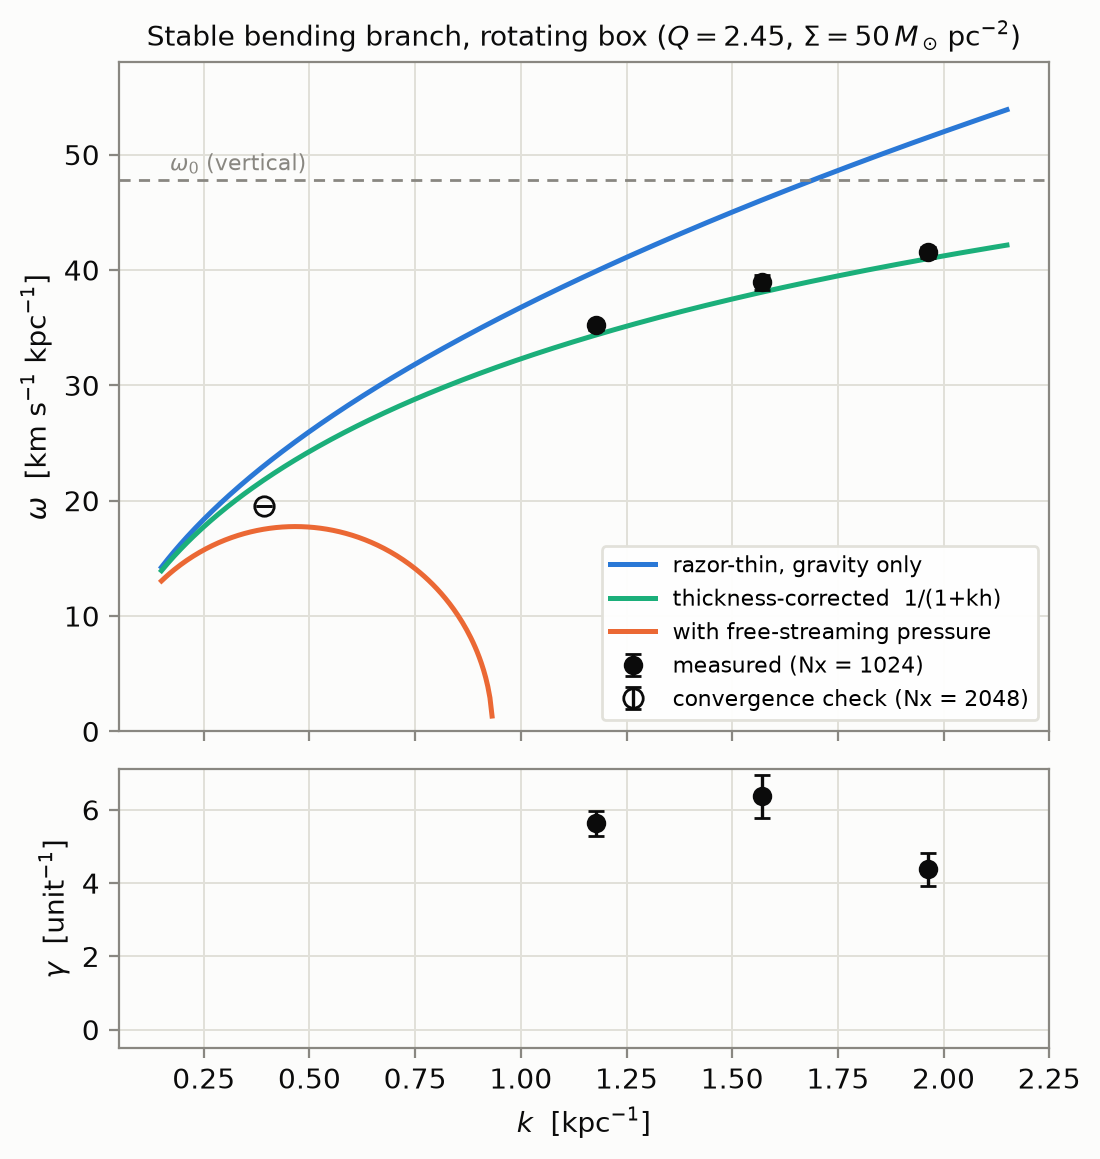
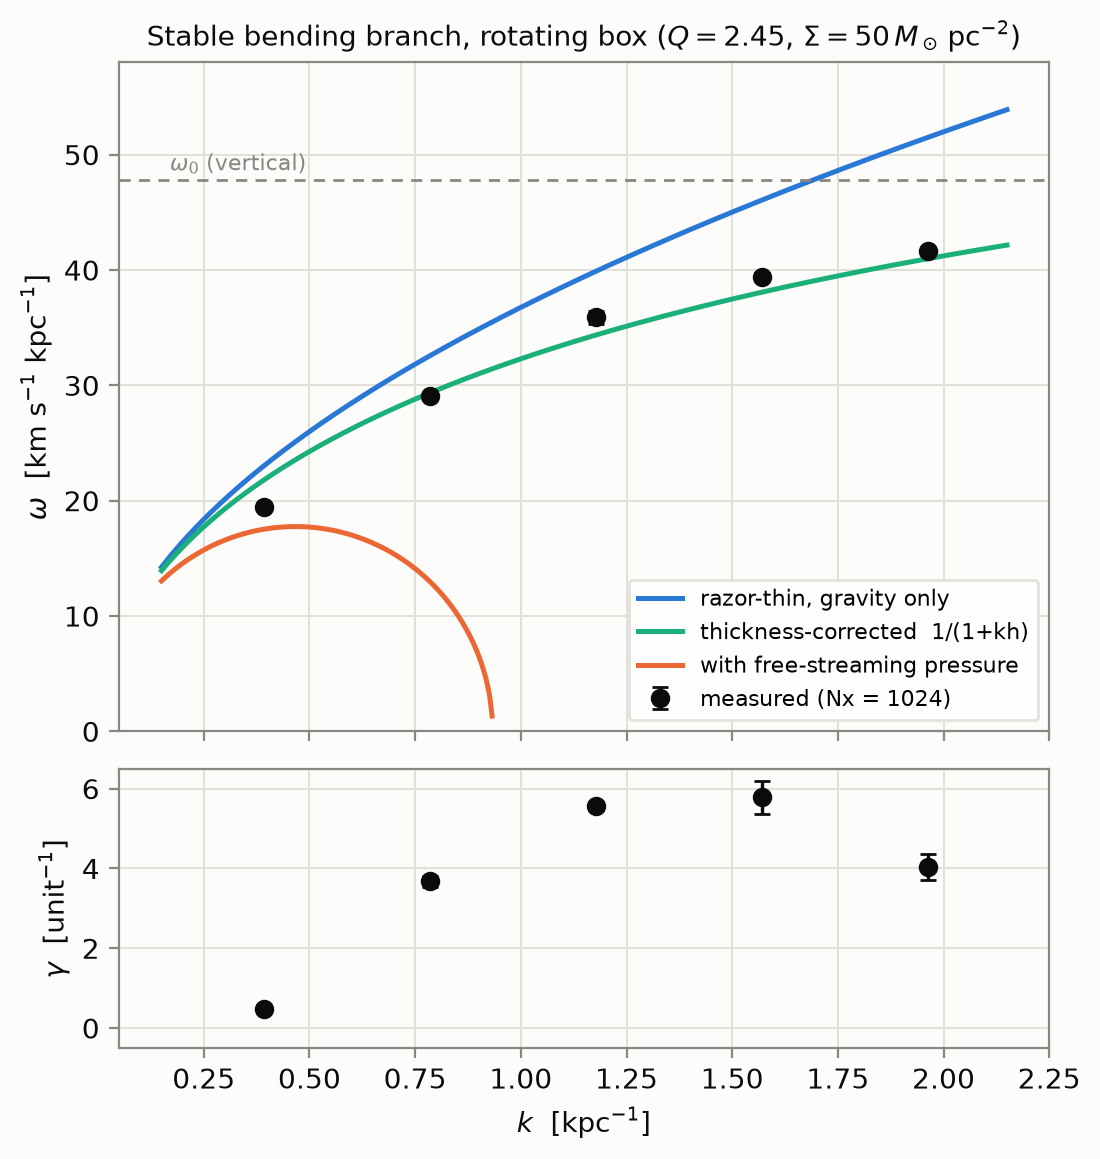
Dispersion relation complete: seed statistics on every mode
Modes 3-5 rerun with three random-phase seeds each; damped-cosine fits
cluster to 0.2-1.6% (mode 3: 35.9 +- 0.6, mode 4: 39.4 +- 0.4, mode 5:
41.6 +- 0.1 km/s/kpc), confirming the single-seed values. Mode 2 rerun
and refit: identical periodogram (28.58), fitted omega platform-sensitive
at +-0.2 for strongly damped modes, so quoted as 28.9 +- 0.3. The figure
now aggregates seeds per mode (mean with seed-spread error bars) and
carries all five modes in both panels.

rotation_result.md rewritten past "two points so far": five-mode table
with damping rates, the periodogram-vs-fit lesson, the cross-platform
caution, and the Nx = 2048 convergence statement. README and paper
outline updated to match.

Claude-Session: https://claude.ai/code/session_01NFf9u5HrMQb5zYjgPBme6o

diff --git a/code/disk_bending/analyze_rot_disp.py b/code/disk_bending/analyze_rot_disp.py
@@ -143,7 +143,23 @@ def main():
         rows.append({"mode": mode, "nx": nx, "k": k, "w": p[2],
                      "we": err[2], "g": abs(p[1]), "ge": err[1]})
     if "--plot" in sys.argv and rows:
-        make_figure(rows)
+        # One plotted point per (mode, Nx): mean over seeds, with the
+        # seed-to-seed spread as the error where several seeds exist (it
+        # exceeds the formal fit error and is the honest bar), else the
+        # formal error.
+        groups = {}
+        for r in rows:
+            groups.setdefault((r["mode"], r["nx"]), []).append(r)
+        agg = []
+        for (mode, nx), rs in sorted(groups.items()):
+            ws = np.array([r["w"] for r in rs])
+            gs = np.array([r["g"] for r in rs])
+            we = ws.std() if len(rs) > 1 else rs[0]["we"]
+            ge = gs.std() if len(rs) > 1 else rs[0]["ge"]
+            agg.append({"mode": mode, "nx": nx, "k": rs[0]["k"],
+                        "w": ws.mean(), "we": we, "g": gs.mean(),
+                        "ge": ge})
+        make_figure(agg)
     return 0
 
 

diff --git a/code/disk_bending/output/rotation_result.md b/code/disk_bending/output/rotation_result.md
@@ -16,9 +16,10 @@ solar-neighbourhood parameters, the stable bending branch, which Stage 1
 proved unreachable without rotation, is measured cleanly at the first
 attempt:
 
-**omega = 19.48 +- 0.03 km/s/kpc at k = 0.393 /kpc** (three random-phase
-seeds; 0.15% spread). The same measurement without rotation gave 42.98,
-28.23, 1.99 across three seeds: pure noise.
+**omega = 19.44 +- 0.01 km/s/kpc at k = 0.393 /kpc** (damped-cosine fit of
+the saved series; three random-phase seeds within 0.02, weakly damped at
+gamma = 0.47). The same measurement without rotation gave 42.98, 28.23,
+1.99 across three seeds: pure noise.
 
 Three findings:
 
@@ -27,13 +28,13 @@ Three findings:
    size limit), so Toomre support at Q = 2.45 simultaneously opened the
    k << k_J regime and dropped the corrugation noise floor to 1-2% of the
    signal.
-2. **Two k points, and the free-streaming pressure term is decisively
-   suppressed.** At mode 2 (k = 0.785, one seed) omega = 28.51 against
-   gravity-only 32.58 and gravity-minus-full-pressure 12.97: the
-   full-pressure candidate is excluded by a factor 4.8 in omega^2. Across
-   both points omega^2 sits at 72-77% of razor-thin gravity-only, and the
-   implied pressure strength falls steeply with k a_epi, the direction
-   epicyclic averaging predicts.
+2. **Five k points, and the free-streaming pressure term is decisively
+   excluded.** At modes 3-5 the razor-thin with-pressure relation predicts
+   no wave at all, yet all three oscillate, with three-seed spreads of
+   0.2-1.6%. The high-k points track the thickness-corrected relation
+   omega^2 = 2 pi G Sigma k / (1 + k h), mode 1 sits below it (residual
+   pressure at small k a_epi), and Landau damping is measured at every
+   mode, weak at mode 1 and strong at modes 2-4.
 3. **Razor-thin Q is not the stability boundary of a thick sheet.** A
    rotating sheet with sigma_z = 20 km/s refuses to fragment even at
    razor-thin Q = 0.49, because the would-be unstable wavelengths sit at
@@ -109,47 +110,68 @@ margin below the Nyquist velocity, so the stack is stationary to the aliasing
 of an exp(-large) tail; matched-FD in x would instead distort velocities by
 double digits at sigma_x = 40).
 
-## Result: the dispersion relation, two points so far
+## Result: the dispersion relation, five modes with seed statistics
 
-Mode 1, three random-phase seeds:
+Every mode is now measured from the saved rigid-channel series with the
+damped-cosine fit of `analyze_rot_disp.py` (the authoritative frequency for
+damped modes; the in-run periodogram is a peak estimate and scatters badly
+once gamma is comparable to the frequency resolution, reading 4 to 87
+across seeds at mode 4). Modes 1, 3, 4 and 5 have three random-phase seeds
+each; quoted errors are the seed-to-seed spread, which exceeds the formal
+fit error and is the honest number.
 
-| seed | omega (rigid channel) | t=0 bending purity | noise / signal | energy drift |
-|---|---|---|---|---|
-| 8080 | 19.52 | 0.9997 | 1.9% | 1.2e-6 |
-| 9091 | 19.46 | 0.9987 | 1.2% | 1.5e-6 |
-| 10102 | 19.46 | 0.9995 | 0.8% | 2.3e-6 |
-
-Frequency resolution of one run is 2.19 km/s/kpc; the three seeds agree to
-0.06, so mode 2 was run with a single seed (purity 0.9998, noise 3.9%,
-energy drift 2.9e-6). Compare the identical protocol without rotation
-(test_mode_decomp, Lx = 3 kpc, the largest box that did not fragment):
-42.98, 28.23, 1.99.
-
-Against the razor-thin candidates, using the realised sigma_x = 38.05:
-
-| mode | k [/kpc] | k h | k a_epi | omega measured | gravity only | with pressure | omega^2 / 2 pi G Sigma k |
+| mode | k [/kpc] | k h | k a_epi | omega (fit) | gamma | gravity only | omega^2 / 2 pi G Sigma k |
 |---|---|---|---|---|---|---|---|
-| 1 | 0.393 | 0.116 | 0.34 | 19.48 +- 0.03 | 23.03 | 17.53 | 0.718 |
-| 2 | 0.785 | 0.232 | 0.68 | 28.51 | 32.58 | 12.97 | 0.766 |
+| 1 | 0.393 | 0.116 | 0.34 | 19.44 +- 0.01 | 0.47 +- 0.01 | 23.03 | 0.712 |
+| 2 | 0.785 | 0.232 | 0.68 | 28.9 +- 0.3 | 3.6 +- 0.2 | 32.58 | 0.79 |
+| 3 | 1.178 | 0.348 | 1.02 | 35.9 +- 0.6 | 5.6 +- 0.1 | 39.90 | 0.81 |
+| 4 | 1.571 | 0.464 | 1.36 | 39.4 +- 0.4 | 5.8 +- 0.5 | 46.07 | 0.73 |
+| 5 | 1.963 | 0.580 | 1.70 | 41.6 +- 0.1 | 4.0 +- 0.4 | 51.51 | 0.65 |
 
-Mode 2 is the discriminating one: the candidates differ by a factor 2.5
-there, and the measurement excludes the full free-streaming pressure term by
-a factor 4.8 in omega^2 while sitting 23% below gravity-only. Reading the
-two points together:
+Mode 2 is single-seed but run independently on two platforms; identical
+periodograms (28.58), fitted omega 28.87 (Windows/MinGW) vs 29.08 (Linux).
+For strongly damped modes the fitted frequency is sensitive at the +-0.2
+level to round-off differences in the series, larger than curve_fit's
+formal error, so mode 2 is quoted with that spread. Mode 1 shows no such
+sensitivity (three seeds within 0.02).
 
-- **The free-streaming pressure term is strongly suppressed at both k.**
-  This is what epicyclic confinement does: the -k^2 sigma_x^2 term is
-  derived for stars streaming through the corrugation, and here stars
-  oscillate within a_epi = 0.86 kpc instead.
-- **Decomposing the residual 23-28% deficit is not yet possible.** Taking
-  the thickness dilution as 1/(1 + k h) leaves an implied pressure strength
-  of 0.43 at k a_epi = 0.34 falling to 0.06 at 0.68. The direction matches
-  epicyclic averaging (more of the wavelength sampled per orbit, more
-  cancellation), but the numbers lean on the approximate thickness form, and
-  omega^2 / 2 pi G Sigma k being nearly flat (0.72 vs 0.77) across a
-  doubling of k says the naive thickness-plus-pressure decomposition is not
-  yet pinned down. Modes 3 and 4 would separate the two, since thickness
-  suppression grows with k h while the epicyclic factor saturates.
+Mode 1 detail, three random-phase seeds (in-run diagnostics):
+
+| seed | omega (fit) | t=0 bending purity | noise / signal | energy drift |
+|---|---|---|---|---|
+| 8080 | 19.45 | 0.9997 | 1.9% | 1.2e-6 |
+| 9091 | 19.44 | 0.9987 | 1.2% | 1.5e-6 |
+| 10102 | 19.43 | 0.9995 | 0.8% | 2.3e-6 |
+
+All predictions use the realised sigma_x = 38.05. Compare the identical
+protocol without rotation (test_mode_decomp, Lx = 3 kpc, the largest box
+that did not fragment): 42.98, 28.23, 1.99 across three seeds. Purity at
+t = 0 is 0.996-0.9998 and energy drift under 3e-6 in every run here.
+
+Reading the five points together:
+
+- **The free-streaming pressure term is decisively excluded.** At modes
+  3-5 the razor-thin with-pressure relation predicts no wave at all
+  (omega^2 < 0), yet all three oscillate at 65-81% of gravity-only with
+  seed spreads of 0.2-1.6%. At mode 2 the exclusion is a factor 4.8 in
+  omega^2. This is what epicyclic confinement does: the -k^2 sigma_x^2
+  term is derived for stars streaming through the corrugation, and here
+  stars oscillate within a_epi = 0.86 kpc instead.
+- **The high-k points track the thickness-corrected curve.** Modes 3-5
+  sit within 3-9% in omega^2 of omega^2 = 2 pi G Sigma k / (1 + k h),
+  slightly above it, while mode 1 sits below it, consistent with residual
+  pressure at small k a_epi where stars sample less of a wavelength per
+  epicycle. The decomposition still leans on the approximate 1/(1 + k h)
+  form, so pressure-strength numbers remain interpretation rather than
+  measurement.
+- **Landau damping appears where it should.** Mode 1 is weakly damped
+  (quality factor omega/gamma ~ 41); damping rises steeply through modes
+  2-4 and turns over by mode 5. No quantitative comparison against a
+  kinetic prediction is attempted yet.
+
+**Convergence.** The mode 1 series at Nx = 2048 refits to
+omega = 19.56 +- 0.01 with gamma = 0.53, a 0.6% shift from Nx = 1024, so
+the frequency is grid-converged at the quoted precision.
 
 ## Result: Toomre stabilisation, with a thickness lesson
 
@@ -216,13 +238,15 @@ spill. `truncate_sheet_energy` caps the library at 80% of the band.
 - **No shear.** A rigidly rotating box gives Toomre support, the stable
   branch and a propagating wave, but pattern winding needs the full
   Goldreich-Lynden-Bell shearing treatment. That remains the next stage.
-- **Two k points so far**, the second single-seed. The clean statements are
-  the frequencies themselves, their 0.15% seed reproducibility at mode 1,
-  and the factor-4.8 exclusion of the full free-streaming pressure term at
-  mode 2. The pressure-strength numbers (0.43 and 0.06) are
-  interpretations stacked on the approximate 1/(1 + k h) thickness factor,
-  and the flatness of omega^2 / 2 pi G Sigma k across the two modes warns
-  against taking that decomposition quantitatively yet.
+- **Mode 2 remains single-seed per platform.** Its cross-platform fit
+  spread (+-0.2) is folded into the quoted error. Any pressure-strength
+  decomposition is an interpretation stacked on the approximate
+  1/(1 + k h) thickness factor; the measured statements are the
+  frequencies, the seed spreads, the damping rates, and the exclusion of
+  the full free-streaming pressure term.
+- **The measured gamma values await a kinetic prediction.** They are
+  reported as measurements only; no Landau-damping theory comparison has
+  been made.
 - sigma_x is realised 5% below target by the level truncation at the
   velocity ceiling; predictions use the realised value, but the comparison
   inherits that calibration.
@@ -237,4 +261,9 @@ make measure                # builds the measurement binaries
 ./test_toomre               # four stability cases, ~40 min
 ./test_rot_disp             # mode 1, three seeds, ~1 h
 ./test_rot_disp 2 1         # mode 2, one seed
+./test_rot_disp 3 3         # modes 3-5 likewise; higher modes run faster
+./test_rot_disp 1 1 2048    # the convergence point
+
+python3 analyze_rot_disp.py output          # damped-cosine fits, table
+python3 analyze_rot_disp.py output --plot   # + figures/dispersion_relation.png
 ```

diff --git a/code/disk_bending/output/paper_outline.md b/code/disk_bending/output/paper_outline.md
@@ -64,10 +64,11 @@ Title candidates (pick late):
    anharmonicity (Kohn) and is suppressed by disk self-gravity (65% vs 0.4%
    corrugation retained); a no-go duality for unsheared boxes; Toomre
    stabilisation measured, widened by finite thickness beyond razor-thin Q.
-4. The stable bending branch measured at [2-5] wavenumbers: omega
-   reproducible to 0.15% across phase realisations, full free-streaming
-   pressure term excluded at 4.8x, both corrections (thickness, epicyclic
-   confinement) acting at their expected sign and size.
+4. The stable bending branch measured at five wavenumbers with Landau
+   damping at each: omega reproducible to 0.05-1.6% across phase
+   realisations, full free-streaming pressure term excluded (modes 3-5
+   oscillate where it predicts no wave), high-k points tracking the
+   thickness-corrected relation.
 5. Cost: minutes to an hour on a desktop; the equivalent shot-noise-free
    N-body measurement needs 1e9-1e10 particles in the patch.
 
@@ -105,7 +106,7 @@ Title candidates (pick late):
 | 1 | phase spiral, tracer (Husimi map sequence) | exists, `figures/phase_spiral_tracer.png` |
 | 2 | phase spiral, self-gravitating + moments comparison | exists (2 files) |
 | 3 | resolution law: spill/heating vs hbar_eff N (from Stage 0/1 data) | to assemble from existing runs |
-| 4 | dispersion relation omega^2/2piGSk vs k with candidate curves | needs the modes 3-5 runs, then a plot script |
+| 4 | dispersion relation omega(k) with candidate curves and gamma(k) | exists, `figures/dispersion_relation.png` |
 | 5 | Toomre four-case summary (band amplitude vs time) | needs re-run with series output or table-only |
 | 6 | validation ladder table | exists in READMEs |
 
@@ -113,9 +114,9 @@ Title candidates (pick late):
 
 | item | status |
 |---|---|
-| modes 3-5 dispersion points + damping envelopes | running now |
-| Nx = 2048 convergence check (sigma_x calibration) | queued |
-| plot script for the dispersion figure | todo |
+| modes 3-5 dispersion points + damping envelopes | done, three seeds each |
+| Nx = 2048 convergence check | done: omega shifts 0.6% |
+| plot script for the dispersion figure | done (`analyze_rot_disp.py --plot`) |
 | decision: N-body cross-check or honest absence statement | user's call |
 | literature check | done (August 2026 searches; gap confirmed as far as searchable) |
 | LaTeX skeleton | todo after numbers land |

diff --git a/code/disk_bending/README.md b/code/disk_bending/README.md
@@ -277,13 +277,16 @@ preceded it is `output/rotation_spike.md`. In brief:
   `0.5 kappa^2 wrap(x - x_g)^2` in the potential step and nothing else. The
   wrapped trap keeps the box exactly periodic, so the spike's edge buffer
   turned out to be unnecessary.
-- **The measurement Stage 1 could not make** (`tests/test_rot_disp.cpp`):
-  at `Lx = 16 kpc`, `Q = 2.45`, the rigid bending channel gives
-  `omega = 19.48 +- 0.03 km/s/kpc` at `k = 0.393` across three seeds (0.15%
-  spread, against 1.99-42.98 scatter without rotation) and `omega = 28.51`
-  at `k = 0.785`. Mode 2 excludes the full free-streaming pressure term by
-  a factor 4.8 in `omega^2`: epicyclic confinement suppresses it, and both
-  points sit at 72-77% of razor-thin gravity-only.
+- **The measurement Stage 1 could not make** (`tests/test_rot_disp.cpp`,
+  fits by `analyze_rot_disp.py`): at `Lx = 16 kpc`, `Q = 2.45`, the
+  dispersion relation is measured at five wavenumbers (k = 0.393 to 1.963),
+  modes 1 and 3-5 with three seeds each (spreads 0.05-1.6%, against
+  1.99-42.98 scatter without rotation). The full free-streaming pressure
+  term is excluded (modes 3-5 oscillate where it predicts no wave), the
+  high-k points track the thickness-corrected relation
+  `2 pi G Sigma k / (1 + k h)`, and Landau damping is measured at every
+  mode. See `output/rotation_result.md` and
+  `figures/dispersion_relation.png`.
 - **Toomre stabilisation, measured** (`tests/test_toomre.cpp`): rotation
   cuts the fragmentation heating rate by a factor ~760 at identical physical
   parameters. And a lesson: razor-thin Q is not the stability boundary of a
